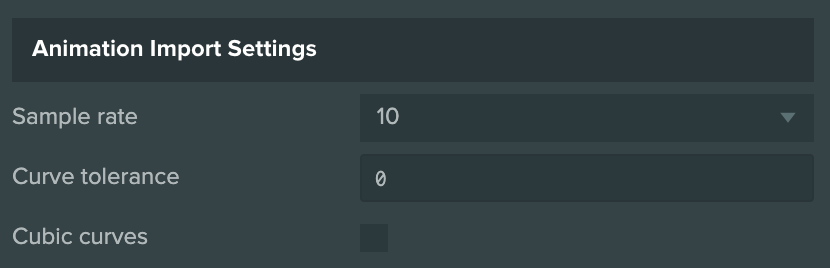
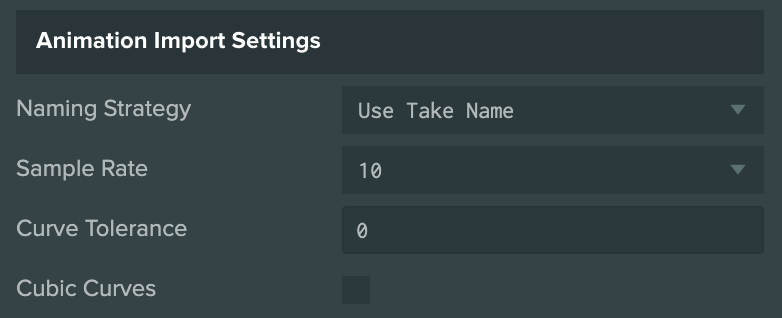
Added Import Hierarchy page (#272)
* Updated the animation tasks sections

* Added import hierarchy page

* No more phone gap

* Update content/en/user-manual/assets/import-pipeline/import-hierarchy.md

* Update content/en/user-manual/assets/import-pipeline/import-hierarchy.md

* Update content/en/user-manual/assets/import-pipeline/index.md

* Update content/en/user-manual/assets/import-pipeline/import-hierarchy.md

* Update content/en/user-manual/assets/import-pipeline/import-hierarchy.md

* Update content/en/user-manual/assets/import-pipeline/import-hierarchy.md

* Update content/en/user-manual/assets/import-pipeline/import-hierarchy.md

* Update content/en/user-manual/assets/import-pipeline/import-hierarchy.md

* Update content/en/user-manual/assets/import-pipeline/index.md

* Update content/en/user-manual/assets/import-pipeline/index.md

* Added updating models section

diff --git a/content/en/user-manual/assets/import-pipeline/index.md b/content/en/user-manual/assets/import-pipeline/index.md
@@ -16,13 +16,7 @@ When a source asset is uploaded that needs to be imported. PlayCanvas starts an 
 
 There are a variety of options available to tune the behavior of the import pipeline to suit your needs.
 
-![asset task options][2]
-
-### Auto-run
-
-By default, when you upload a file we will automatically run the import pipeline for that asset. If you don't want to run the pipeline you can disable auto-run from the task panel or from the settings.
-
-If auto-run is disabled you can run or dismiss tasks individually from the asset panel.
+<img src="/images/user-manual/assets/import-pipeline/asset-tasks.png" width="360px">
 
 ### Search related assets
 
@@ -33,17 +27,29 @@ When you update an source asset by uploading a new version of the file. There ar
 
 So, if you leave this enabled, you are able to organize your source and target assets into folders and be sure that when you update a source assets it will update all related assets.
 
-## Texture Options
+### Assets default to preload
 
-These options only affect the importing of images and textures
+Newly created assets will automatically be set to [preload][2] or not depending on whether this option is enabled or not. The exception to this are JavaScript script files which will always be set to preloaded when created.
+
+## Texture Import Settings
+
+These options only affect the importing of images and textures.
 
 ### Texture POT (Power of Two)
 
 When this option is enabled textures that are not a power of two will be converted to the nearest power of two resolution when they are imported.
 
-## Model Options
+### Create Atlases
+
+Images that are uploaded will be imported as a texture atlas instead of a normal texture asset. This is a useful time saver when uploading many spritesheets or UI assets.
+
+## Model Import Settings
 
 These options only affect the importing of model or scene files (e.g. FBX, Collada, obj, etc)
+
+### Preserve material mappings
+
+When a model file is updated or reimported, the Editor will try to preserve the material mappings that were set on it.
 
 ### Overwrite Models
 
@@ -61,5 +67,19 @@ When a model file is updated or reimported this option determines whether or not
 
 When a model file is updated or reimported this option determines whether or not textures created from the model are overwritten. The default behavior is to overwrite with the new textures.
 
+### Convert to GLB
+
+Enabled by default on new projects, imported models and animations will create GLB model and animation assets instead of the older, deprecated JSON format.
+
+### Import Hierarchy
+
+Only available if using [Convert to GLB](#convert-to-glb) option. When a model file is imported, a template asset is created that contains the full hierarchy of the model as entities allowing to you to manipulate them directly in the Editor. See more information about this feature [here][3].
+
+## Animation Import Settings
+
+Please refer to the [Animation section][4] for more details.
+
 [1]: /images/user-manual/assets/import-pipeline/asset-tasks-full.jpg
-[2]: /images/user-manual/assets/import-pipeline/asset-tasks.jpg
+[2]: /user-manual/assets/preloading-and-streaming/
+[3]: /user-manual/assets/import-pipeline/import-hierarchy/
+[4]: /user-manual/assets/animation/

diff --git a/content/en/user-manual/assets/import-pipeline/import-hierarchy.md b/content/en/user-manual/assets/import-pipeline/import-hierarchy.md
@@ -1,0 +1,52 @@
+---
+title: Import Hierarchy
+template: usermanual-page.tmpl.html
+position: 1
+---
+
+PlayCanvas supports importing models with their meshes as a hierarchy of entities in the scene. This allows you to edit the different meshes directly in the Editor. Components can be added, attach other entities, move/rotate/scale entities in the hierarchy etc.
+
+![Edit model hierarchy in the Editor][edit_hierarchy_gif]
+
+## How to enable
+
+Open the 'Project Settings'
+
+<img src="/images/user-manual/assets/import-pipeline/import-hierarchy/project-settings.png" width="480px">
+
+Scroll down to 'Asset Tasks' and enable 'Import Hierarchy':
+
+<img src="/images/user-manual/assets/import-pipeline/import-hierarchy/asset-tasks.png" width="360px">
+
+## Importing models
+
+Drag the model file into the 'Assets Panel':
+![Drag Model into Assets Panel][import_model_gif]
+
+The following assets will be created when imported:
+![Created Assets][created_assets_img]
+
+| Asset Type | Description |
+|------------|-------------|
+| **[Materials][material_asset]** | Materials used by the imported model, mapped to the mesh instance. |
+| **[Textures][texture_asset]** | Embedded textures in the model file (if any). These will automatically be mapped to the associated materials. |
+| **[Template][template_asset]** | The template stores the scene hierarchy of the model. Create an instance of the template to bring the model into the scene. |
+| **Container** | The GLB that stores all the meshes of the model. |
+| **Render** | Render assets reference a mesh in the container asset and are used by the [Render Component][render_component] to render the mesh in the scene. They can also be used with the [Collision Component][collision_component] as a mesh for physics. |
+
+## Updating models
+
+As the hierarchy is created as part of a template, when a model is updated it may affect the template instances in the scenes.
+
+Added components to entities in the template will be kept during the update unless the mesh instance that the entity represents no longer exists in the updated model.
+
+The exception to this is if a script component is added to an entity in the template and the mesh instance it represents is no longer part of the updated model, it will be moved under the root entity in the template so there is no data loss. Any entities that were under it before the update will be kept as well.
+
+[edit_hierarchy_gif]: /images/user-manual/assets/import-pipeline/import-hierarchy/edit-hierarchy.gif
+[import_model_gif]: /images/user-manual/assets/import-pipeline/import-hierarchy/import-model.gif
+[created_assets_img]: /images/user-manual/assets/import-pipeline/import-hierarchy/created-assets.png
+[material_asset]: /user-manual/assets/physical-material/
+[texture_asset]: /user-manual/assets/textures/
+[template_asset]: /user-manual/templates/
+[render_component]: /api/pc.RenderComponent.html
+[collision_component]: /api/pc.CollisionComponent.html

diff --git a/content/en/user-manual/assets/animation.md b/content/en/user-manual/assets/animation.md
@@ -18,6 +18,12 @@ They can be found in the Project Settings under Asset Tasks.
 
 ![Animation Import Settings][animation_import_settings]
 
+### Naming Strategy
+
+Only available for GLB export format. When importing an animation, the generated asset name can either be set from the 'Take Name' in the animation file, or use the animation filename instead.
+
+This is useful with assets that are brought/taken from a store such as [Mixamo][1] where all the take names are 'mixamo.com' and using the filename as the asset name is clearer.
+
 ### Sample rate
 
 Available for both JSON and GLB export formats. The higher the rate, the higher detail and fidelity the animation at the cost of size. If you would like to keep the keyframes that have been set and defined in the original animation, select Disabled.
@@ -39,3 +45,5 @@ If enabling this option, it is recommended that Sample Rate is disabled and Curv
 [asset_pipeline]: /user-manual/glossary#asset-pipeline
 [target_asset]: /user-manual/glossary#target-asset
 [animation_import_settings]: /images/user-manual/assets/animation/animation-import-settings.png
+
+ [1]: https://www.mixamo.com/

diff --git a/content/en/user-manual/publishing/mobile/index.md b/content/en/user-manual/publishing/mobile/index.md
@@ -7,9 +7,7 @@ position: 2
 PlayCanvas games are just web pages. An index.html file and a collection of resources (JavaScript files, JSON files, images and so on). They work great in web browsers, of course, but if you want to submit your game to a mobile app store such as Google Play or the Apple App Store, then you somehow need to convert your PlayCanvas game to a native app. There are a few products available to simplify the process for you:
 
 * [Cordova][1]
-* [PhoneGap][2]
 
 Alternatively, another option is to create an Android or iOS app the consists of a single fullscreen WebView that loads your PlayCanvas app from local app resources.
 
 [1]: /user-manual/publishing/mobile/cordova
-[2]: https://build.phonegap.com/
